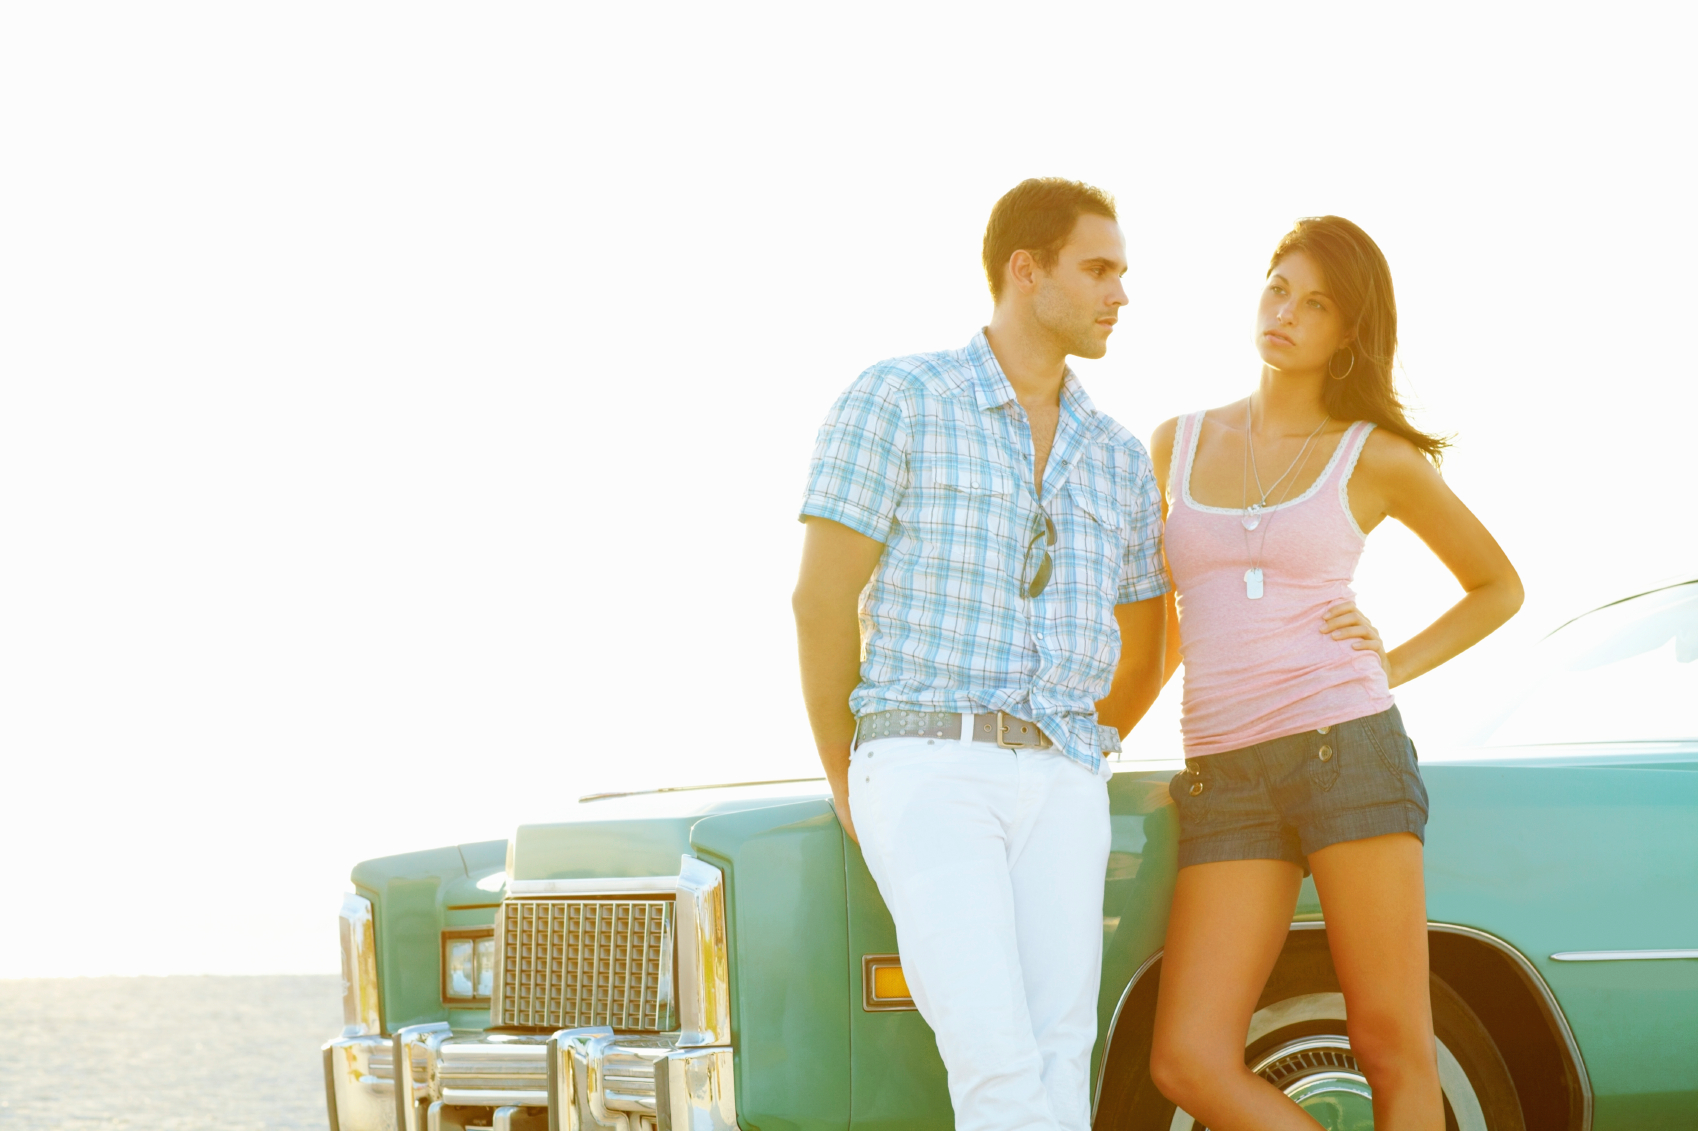
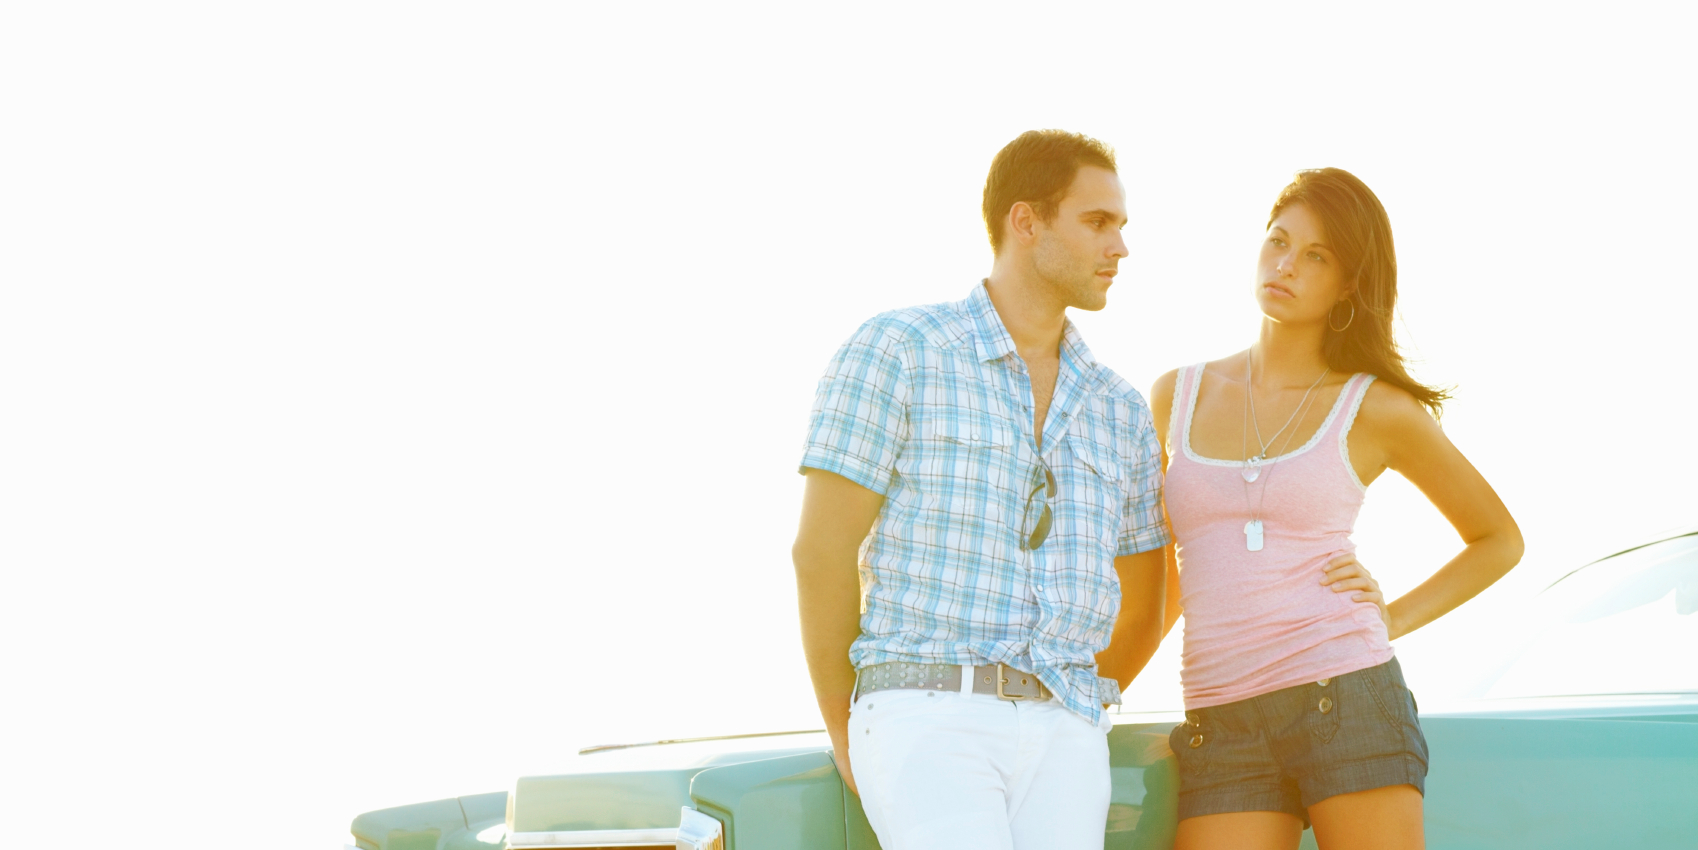
Polished slider and main titles. Customizing layout...

diff --git a/app/assets/stylesheets/custom.css.scss b/app/assets/stylesheets/custom.css.scss
@@ -1,12 +1,11 @@
 @import "bootstrap-sprockets";
 @import "bootstrap";
 
-/*---------------------------------------------
+/*-------------------------------------------------------------
  *  DEFINES MIXINS, VARIABLES, ETC.
- *-------------------------------------------*/
+ *-----------------------------------------------------------*/
 
 $gray-medium-light: #eaeaea;
-$white: #fff;
 $purple: #9966FF;
 $purpleDark: #5C3D99;
 
@@ -17,9 +16,9 @@ $purpleDark: #5C3D99;
 	box-sizing: 				border-box;
 }
 
-/*---------------------------------------------
+/*-------------------------------------------------------------
  *  CUSTOMIZES MISCELLANEOUS THINGS
- *-------------------------------------------*/
+ *-----------------------------------------------------------*/
 
 .debug_dump
 {
@@ -30,9 +29,9 @@ $purpleDark: #5C3D99;
 	@include box_sizing;
 }
 
-/*---------------------------------------------
+/*-------------------------------------------------------------
  *  CUSTOMIZES UNIVERSAL ELEMENTS
- *-------------------------------------------*/
+ *-----------------------------------------------------------*/
 
 html
 {
@@ -41,7 +40,7 @@ html
 
 body
 {
-	font-family: 'Roboto', sans-serif;
+	font-family: 'Source Sans Pro', sans-serif;
 	padding-top: 60px;
 }
 
@@ -64,9 +63,9 @@ textarea
 	}
 }
 
-/*---------------------------------------------
+/*-------------------------------------------------------------
  *  CUSTOMIZES TYPOGRAPHY
- *-------------------------------------------*/
+ *-----------------------------------------------------------*/
 
 h1, h2, h3, h4, h5, h6 
 {
@@ -75,15 +74,16 @@ h1, h2, h3, h4, h5, h6
 
 h1
 {
+	font-family: 'Arvo', sans-serif;
 	font-size: 3em;
 	letter-spacing: -2px;
-	margin-bottom: 30px;
+	margin-bottom: 25px;
 	text-align: center;
 }
 
 h2
 {
-	font-size: 1.5em;
+	font-size: 1.4em;
 	letter-spacing: -1px;
 	margin-bottom: 30px;
 	text-align: left;
@@ -91,15 +91,31 @@ h2
 	color: $gray-light;
 }
 
+h3
+{
+	font-family: 'Arvo', sans-serif;
+}
+
 p
 {
-	font-size: 1.1em;
+	font-size: 1.2em;
 	line-height: 1.7em;
 }
 
-/*---------------------------------------------
+a
+{
+	color: red;
+	text-decoration: none;
+	&:hover
+	{
+		color: darkred;
+		text-decoration: none;
+	}
+}
+
+/*-------------------------------------------------------------
  *  CUSTOMIZES THE HEADER
- *-------------------------------------------*/
+ *-----------------------------------------------------------*/
 
 .navbar
 {
@@ -112,7 +128,7 @@ p
 		text-decoration: none;
 		&:hover
 		{
-			color: $gray-light;
+			color: darkred;
 			background-color: transparent;
 			text-decoration: none;
 		}
@@ -124,21 +140,21 @@ p
 		margin-left: 10px;
 		font-size: 1.7em;
 		color: $gray;
+		font-family: 'Arvo', sans-serif;
 		letter-spacing: -1px;
 		padding-top: 9px;
-		font-weight: bold;
 		&:hover
 		{
-			color: $gray-light;
+			color: darkred;
 			text-decoration: none;		
 		}
 	}
 
 }
 
-/*---------------------------------------------
+/*-------------------------------------------------------------
  *  CUSTOMIZES THE FOOTER
- *-------------------------------------------*/
+ *-----------------------------------------------------------*/
 
 footer
 {
@@ -181,9 +197,9 @@ footer
 	}
 }
 
-/*---------------------------------------------
+/*-------------------------------------------------------------
  *  CUSTOMIZES THE LANDING PAGE
- *-------------------------------------------*/
+ *-----------------------------------------------------------*/
 
 .slider
 {
@@ -229,28 +245,48 @@ footer
 }
 #slide-2
 {
-	padding-top: 200px;
-	padding-left: auto;
-	padding-right: auto;
+	padding-top: 150px;
 	background-image: url('/assets/landing-2.png');
+	h1
+	{
+		text-shadow: 1px 1px 1px #555;
+		color: white;
+		margin-bottom: 15px;
+		text-align: center;
+	}
+	p
+	{
+		text-shadow: 1px 1px 1px #555;
+		color: white;
+		text-align: center;
+	}
+	.action-link
+	{
+		text-shadow: none;
+	}
+}
+#slide-3
+{
+	color: white;
+	padding-top: 75px;
+	background-image: url('/assets/landing-3.png');
+	text-shadow: 1px 1px 1px #555;
 	h1
 	{
 		text-align: center;
 	}
 	p
 	{
+		color: white;
 		text-align: center;
 	}
-}
-#slide-3
-{
-	color: $white;
-	padding-top: 80px;
-	padding-left: 20px;
-	background-image: url('/assets/landing-3.png');
-	h1
+	.action-link
 	{
-		text-align: left;
+		color: white;
+		&:hover
+		{
+			color: $gray-medium-light;
+		}
 	}
 }
 
@@ -299,9 +335,9 @@ footer
 }
 
 
-/*---------------------------------------------
+/*-------------------------------------------------------------
  *  CUSTOMIZES THE USER PROFILE'S SIDEBAR
- *-------------------------------------------*/
+ *-----------------------------------------------------------*/
 
 aside
 {
@@ -365,7 +401,7 @@ aside
 		&:hover
 		{
 			text-decoration: none;
-			color: blue;
+			color: darkred;
 		}
 	}
 	strong
@@ -399,9 +435,9 @@ aside
 	padding: 0px;
 }
 
-/*---------------------------------------------
+/*-------------------------------------------------------------
  *  CUSTOMIZES FORMS
- *-------------------------------------------*/
+ *-----------------------------------------------------------*/
 
 input, textarea, select, .uneditable-input
 {
@@ -452,9 +488,9 @@ input
 	margin-left: 0;
 }
 
-/*---------------------------------------------
- *  CUSTOMIZES USER INDEX
- *-------------------------------------------*/
+/*-------------------------------------------------------------
+ *  CUSTOMIZES USERS INDEX
+ *-----------------------------------------------------------*/
 
 .users
 {
@@ -468,9 +504,14 @@ input
 	}
 }
 
-/*---------------------------------------------
+.pagination
+{
+	color: darkred;
+}
+
+/*-------------------------------------------------------------
  *  CUSTOMIZES MICROPOSTS
- *-------------------------------------------*/
+ *-----------------------------------------------------------*/
 
 .microposts
 {
